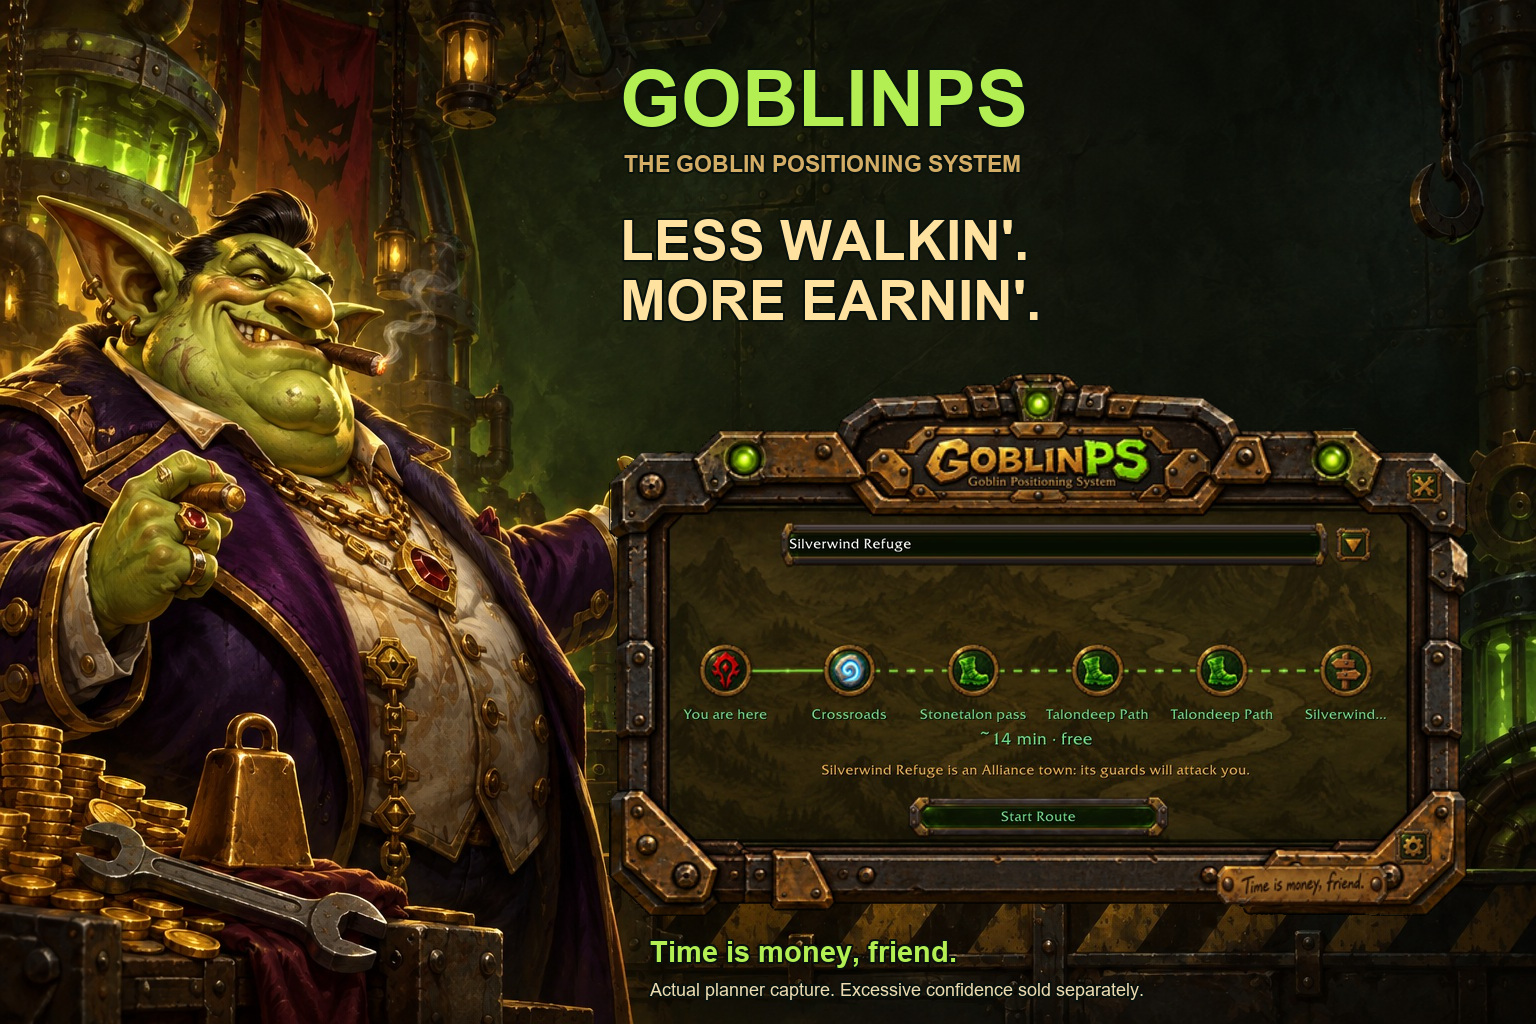
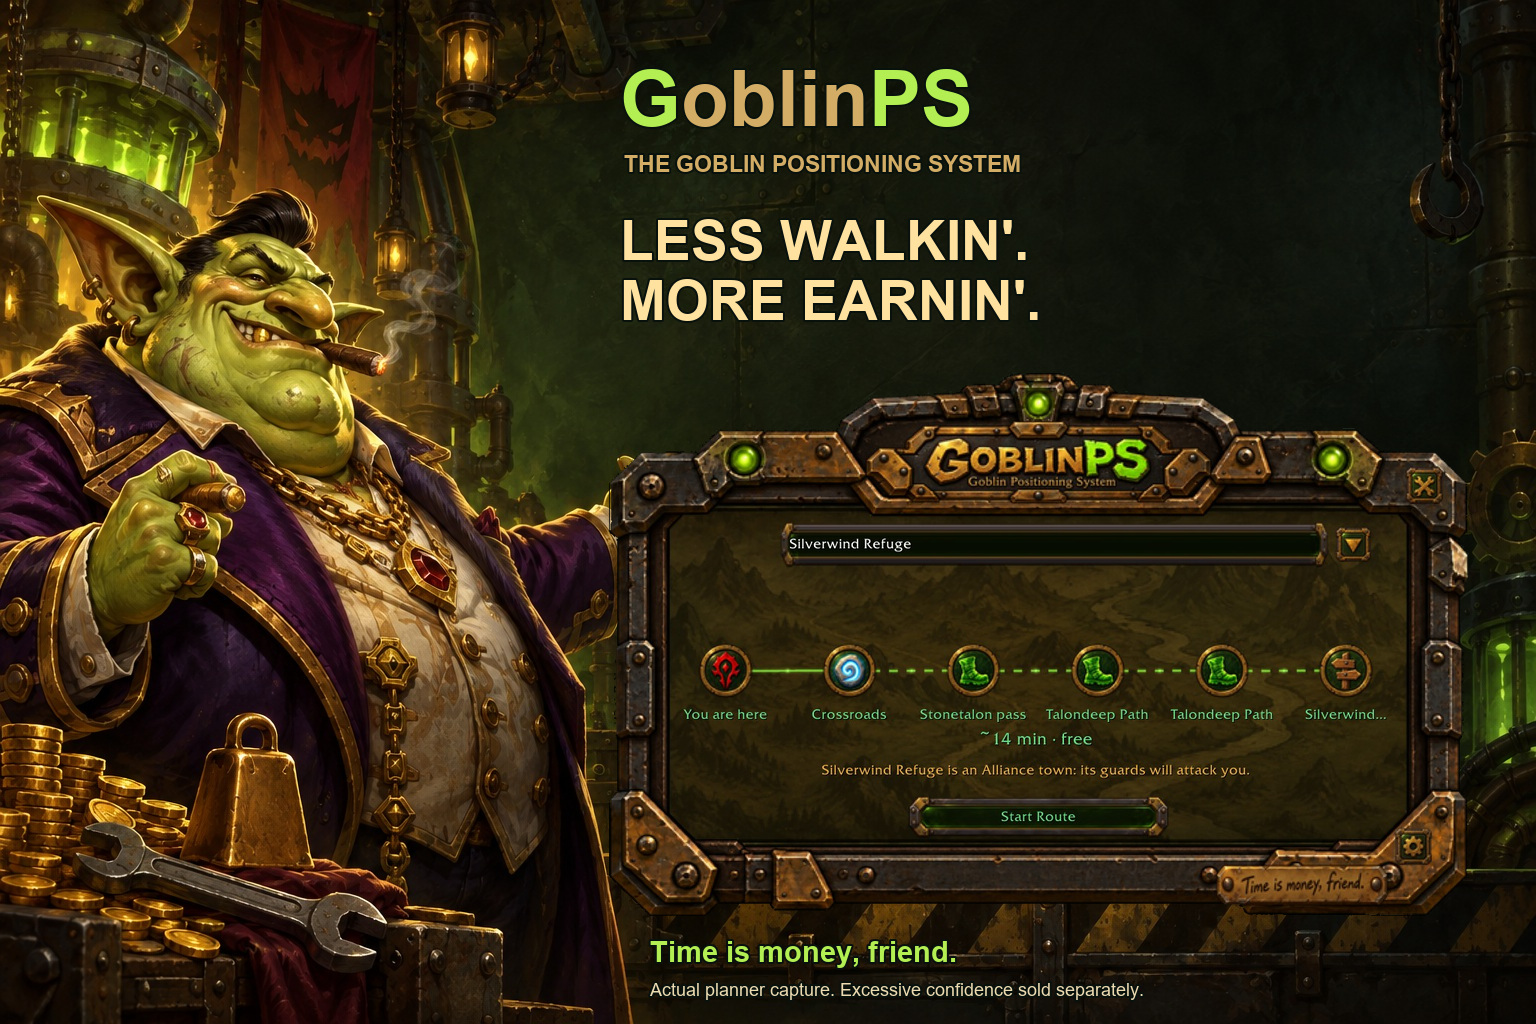
Highlight GPS initials in mixed-case GoblinPS demo title

Changed region(s): [[0.4375, 0.0625, 0.6875, 0.125]]

diff --git a/images/readme/build_demo_cards.py b/images/readme/build_demo_cards.py
@@ -35,7 +35,11 @@ def capture(name, size):
 
 
 hero = Image.open(ROOT/'trade-prince-background.jpg').convert('RGBA')
-lettering(hero,(620,55),'GOBLINPS',78,'#b3ee52',True)
+brand_font = font(78, True)
+brand_x = 620
+for letters, color in [('G', '#b3ee52'), ('oblin', '#d3ad65'), ('PS', '#b3ee52')]:
+    lettering(hero, (brand_x,55), letters,78,color,True)
+    brand_x += brand_font.getlength(letters)
 lettering(hero,(624,151),'THE GOBLIN POSITIONING SYSTEM',23,'#d3ad65',True)
 lettering(hero,(620,210),"LESS WALKIN'.",55,'#ffe1a0',True)
 lettering(hero,(620,270),"MORE EARNIN'.",55,'#ffe1a0',True)
